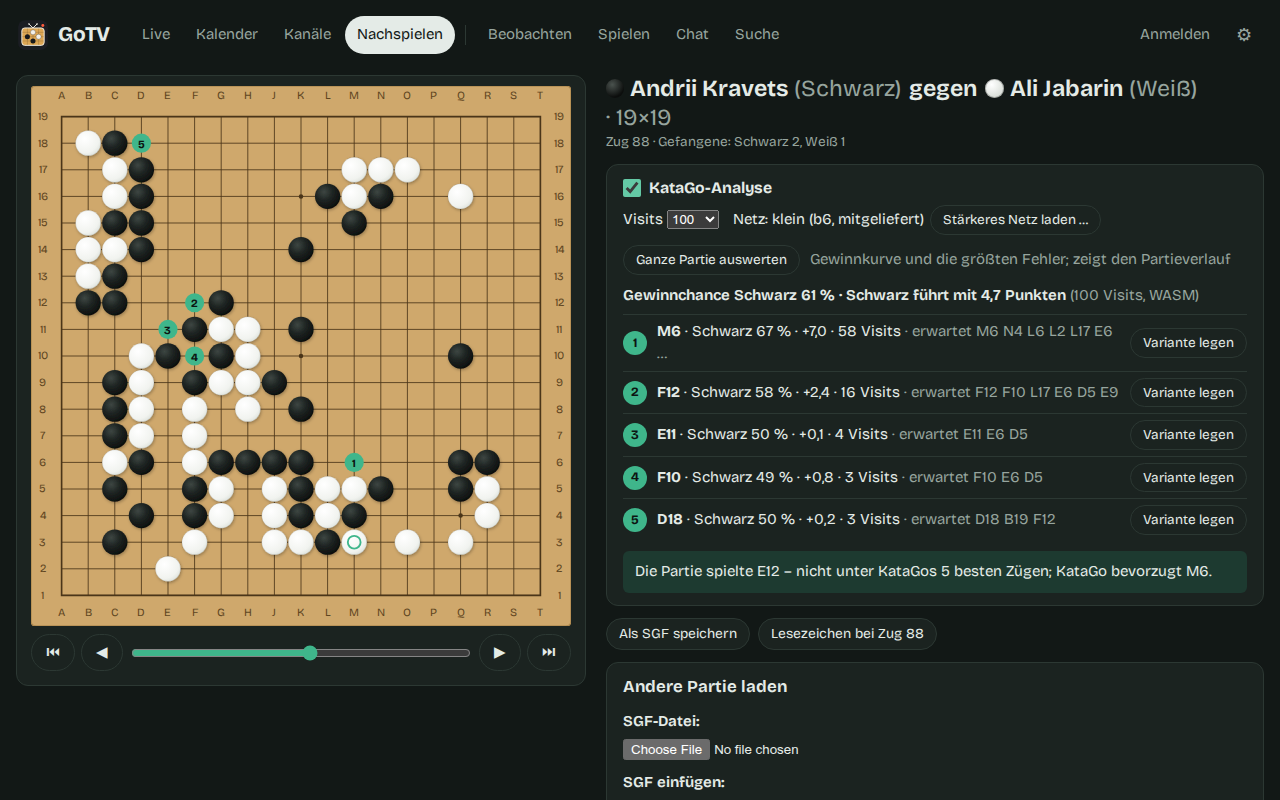
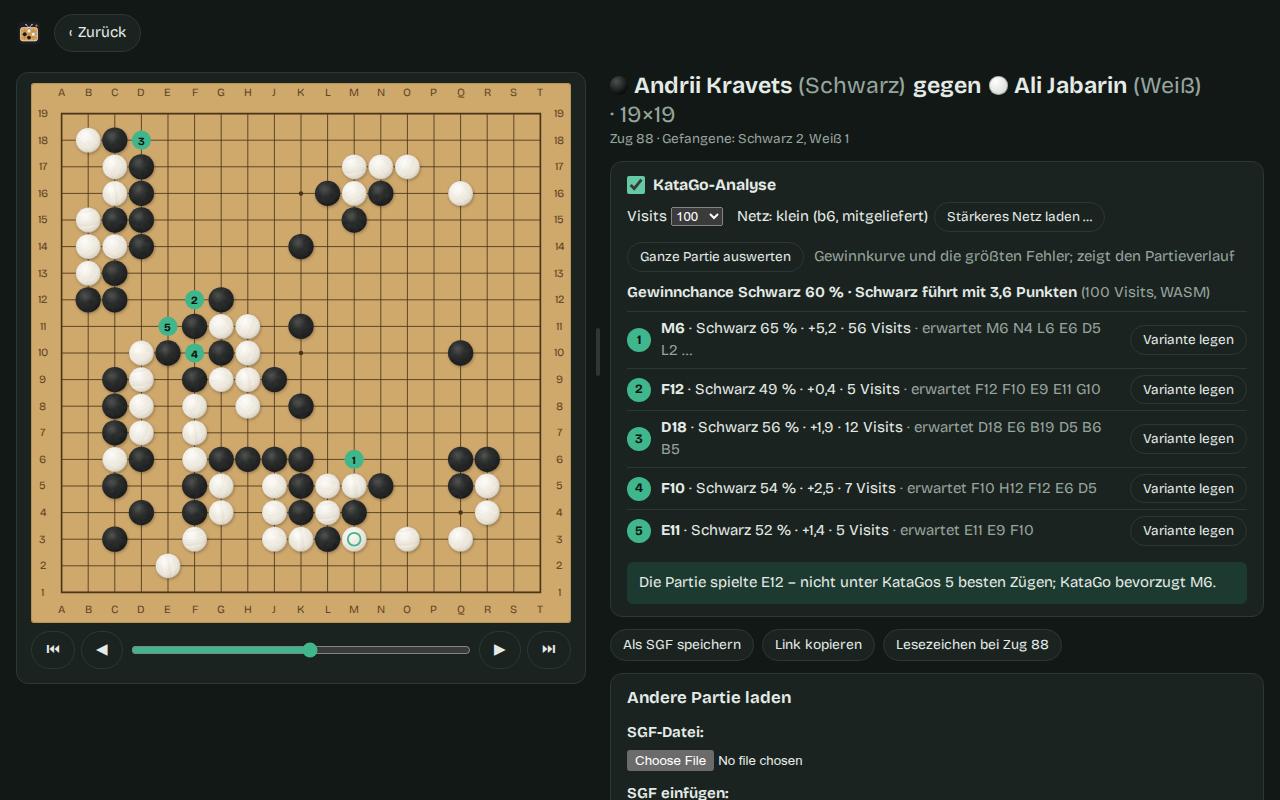
docs: README with the new features and fresh screenshots; even spacing in settings

diff --git a/app/src/routes/einstellungen/+page.svelte b/app/src/routes/einstellungen/+page.svelte
@@ -232,8 +232,10 @@
 		padding: 0;
 	}
 
-	.language {
-		margin-bottom: calc(var(--gap) * 1.6);
+	/* The same space between all sections (sounds and design sat right
+	   under the section above). */
+	fieldset + fieldset {
+		margin-top: calc(var(--gap) * 1.6);
 	}
 
 	.languages {

diff --git a/README.md b/README.md
@@ -39,7 +39,9 @@ settings. GoTV is built with Svelte 5 + TypeScript (`app/`).
 **Desktop downloads and updates:** the files above always point to the latest
 release. A new release is built only when a version tag `desktop-vX.Y.Z` is pushed
 (`.github/workflows/desktop.yml`), so the desktop apps can be behind the browser
-version, which updates with every change on `master`.
+version, which updates with every change on `master`. From version 0.3.0 the desktop
+app says at start when a newer version is out ("Update herunterladen" opens the
+download); "Einstellungen → Über GoTV" shows the version and checks by hand.
 
 ## What GoTV does
 
@@ -51,7 +53,9 @@ version, which updates with every change on `master`.
   clocks and chat arrive in real time; each board is labelled KGS or OGS.
 - **Follows a match by itself:** name the OGS players of an event, or paste
   one OGS game link at the card ("OGS-Partielink zuordnen") - after each
-  game the next game of the same players appears automatically.
+  game the next game of the same players appears automatically. For the
+  Speed Go Championship GoTV knows the players' OGS accounts, so the board
+  appears next to the stream as soon as a game starts.
 - **Several boards at once:** a team match shows small live boards with
   players, ranks and move number; a click brings one up next to the stream.
 - **Kinomodus:** stream and board fill the window side by side, with an
@@ -68,15 +72,27 @@ version, which updates with every change on `master`.
   asks once more, so a mistaken tap on the tablet does not end the game. The
   edge between board and side column can be dragged to make the board bigger.
   While a board is open (own game, watching, replay) the menu bar is hidden, as
-  in a separate game window; the small GoTV logo leads back.
+  in a separate game window; the small GoTV logo leads back. Leaving your own
+  running game asks first: back to the game, resign or leave.
+- **Stones like a real set:** white like clam shell (muted ivory with fine
+  growth lines, every stone different), black like matte slate; white is
+  drawn 2 % smaller, as in real Go sets, because light stones look bigger.
+- **Watching, as in CGoban:** "Ergebnis schätzen" (score estimate - random
+  playouts, no AI, not in your own running game), "Lokal betrachten" (a copy
+  to step through on your own; KataGo stays off while the game runs on KGS)
+  and "Spiel kopieren in …" (into one of your rooms).
 - **Sounds while playing:** a stone click on every move, a clear chime when your
   game starts and a beep for each of the last 10 seconds on your clock - so you
   hear it away from the screen. Each can be switched off in the settings.
 - **Changed challenge terms:** if the challenge's creator answers with other
   terms, GoTV shows them with the changes highlighted to accept or decline.
-- **Unfinished and archived games:** an unfinished game of yours can be resumed
-  ("Partie fortsetzen" loads it into a room); a finished game from a player's
-  archive opens in Nachspielen ("In GoTV nachspielen") with KataGo.
+- **Unfinished and archived games:** all unfinished games of yours are listed
+  as in CGoban, games whose opponent is waiting first and in bold; "Partie
+  fortsetzen" loads one into a room. A finished game from a player's archive
+  opens in Nachspielen ("In GoTV nachspielen") with KataGo.
+- **KGS community:** friends, ignore and fan lists, messages for offline
+  players and your mailbox, "Keine Unterhaltungen" (decline private chats),
+  creating a room and the KGS server statistics.
 - **Follow KGS players:** "Folgen" in a player's profile; "Gefolgte Spieler"
   shows who plays right now with a link to the game, and GoTV notifies you
   when one starts a game (while GoTV is open). Favourite KGS rooms are joined
@@ -142,7 +158,7 @@ example: the EGF channel and the bundled EM 2026 final), design "Modern":
 <img src="./docs/screenshots/app/live.png" width="800" alt="Live: Twitch player of the EGF next to the board of the EM 2026 final">
 
 **Nachspielen with KataGo** - win chance, score and the five best moves on the
-board, design "Modern dunkel":
+board, clam shell and slate stones, design "Modern dunkel":
 
 <img src="./docs/screenshots/app/nachspielen-katago.png" width="800" alt="Replay of the EM 2026 final at move 88 with KataGo's five best moves">
 
@@ -156,16 +172,19 @@ replay:
 
 <img src="./docs/screenshots/app/kanaele-classic.png" width="800" alt="Channels page with week plan in the Classic design">
 
-**Einstellungen** - three designs, switched at once:
+**Einstellungen** - language, menu order, sounds while playing and three designs,
+switched at once:
 
-<img src="./docs/screenshots/app/einstellungen.png" width="800" alt="Settings with the design choice">
+<img src="./docs/screenshots/app/einstellungen.png" width="800" alt="Settings: language, menu order, sounds while playing, design choice">
 
 ## KGS client
 
 Logged in to KGS, GoTV is a complete KGS client: game lists, watching games with
 chat, room chat, direct messages, user details, challenges (create, propose,
-negotiate, changed terms), automatic opponent selection, resuming unfinished games
-and playing. Not available: rengo/simul, recorded KGS lectures (the KGS interface
+negotiate, changed terms), automatic opponent selection, resuming unfinished games,
+playing, score estimate, local copies, copying a game into a room, friend/ignore/fan
+lists, messages and mailbox, declining private chats, creating rooms and server
+statistics. Not available: rengo/simul, recorded KGS lectures (the KGS interface
 GoTV uses carries no sound for them) and admin tools.
 
 ## Rebuilt interface (Svelte 5)

diff --git a/AGENTS.md b/AGENTS.md
@@ -747,6 +747,10 @@ Nachbarn nie gleich), Schwarz wie matter Schiefer; Weiß 2 % kleiner wie bei ech
 Steine wirken größer). Vom Nutzer aus drei Entwürfen gewählt, gilt für beide Designs.
 `app/src/lib/ui/board/stoneLook.ts`, gezeichnet in `Board.svelte` (Linien einmal in `<defs>`,
 pro Stein ein `<use>`; Schiefer-Korn als Muster-Kachel, nicht als Filter pro Stein).
+README-Screenshots `docs/screenshots/app/nachspielen-katago.png` und `einstellungen.png` am
+26.11.2026 neu aufgenommen (Playwright gegen den Dev-Server auf Port 5199, 1280x800,
+`gotv.design` per localStorage); `live.png`, `kalender.png`, `kanaele-classic.png` zeigen keine
+Steine und sind unverändert. README um die Funktionen vom 25./26.11. ergänzt.
 
 ## CGoban-Funktionen aus den Videos des Nutzers (25.11.2026, abends)
 
